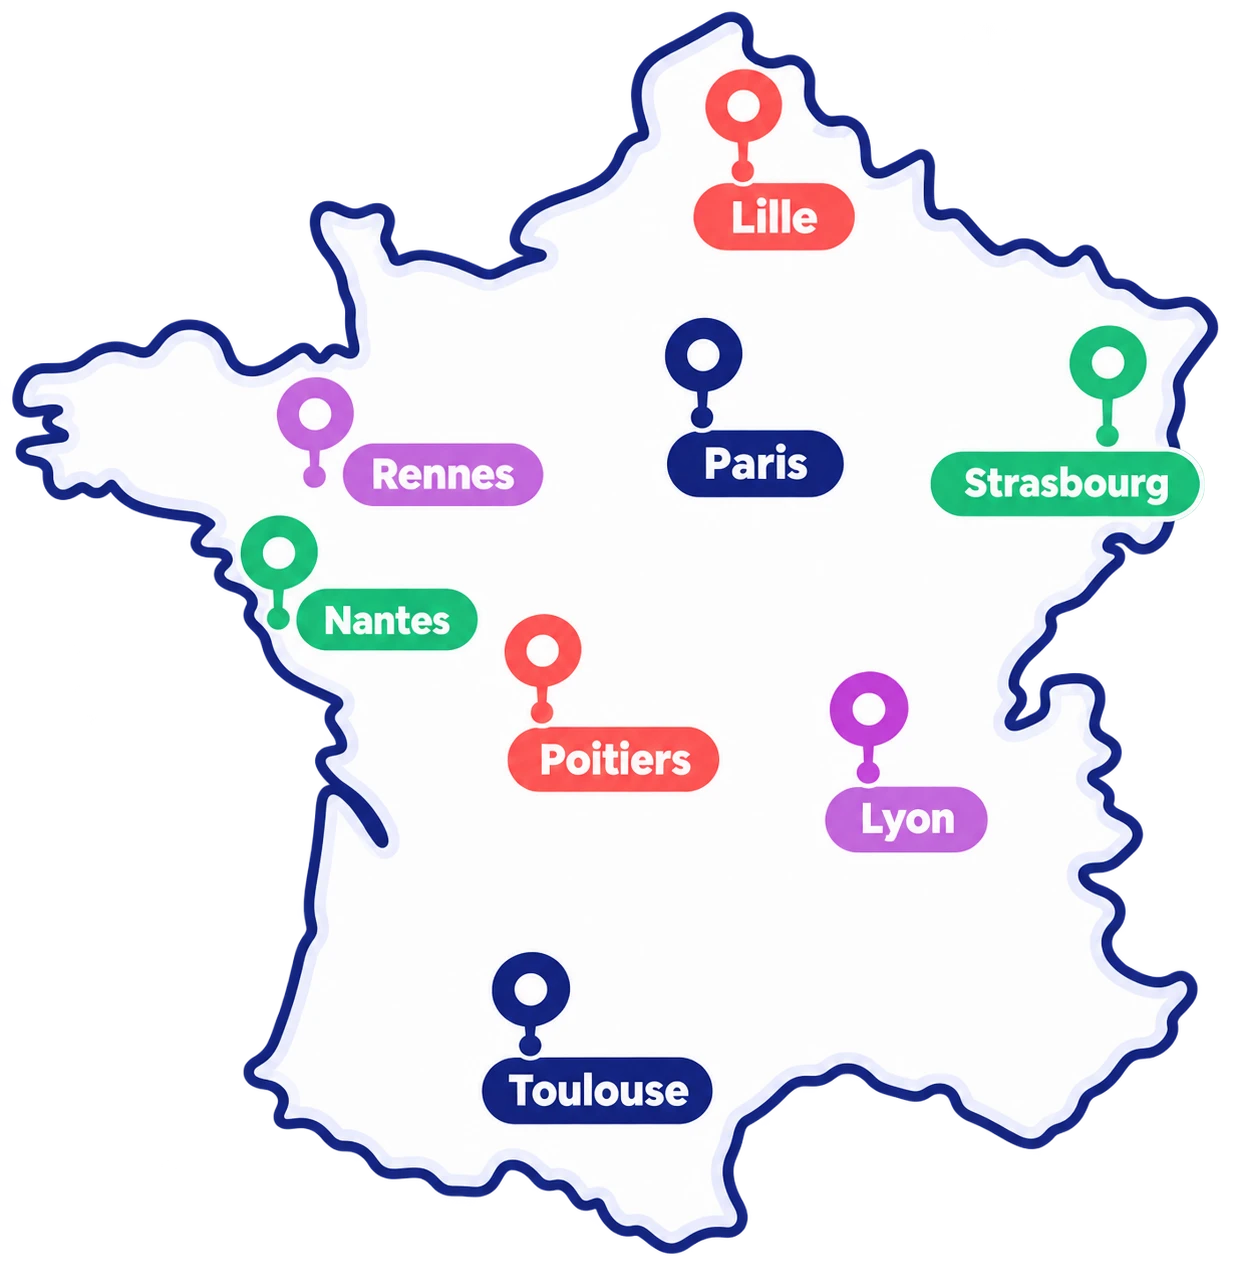
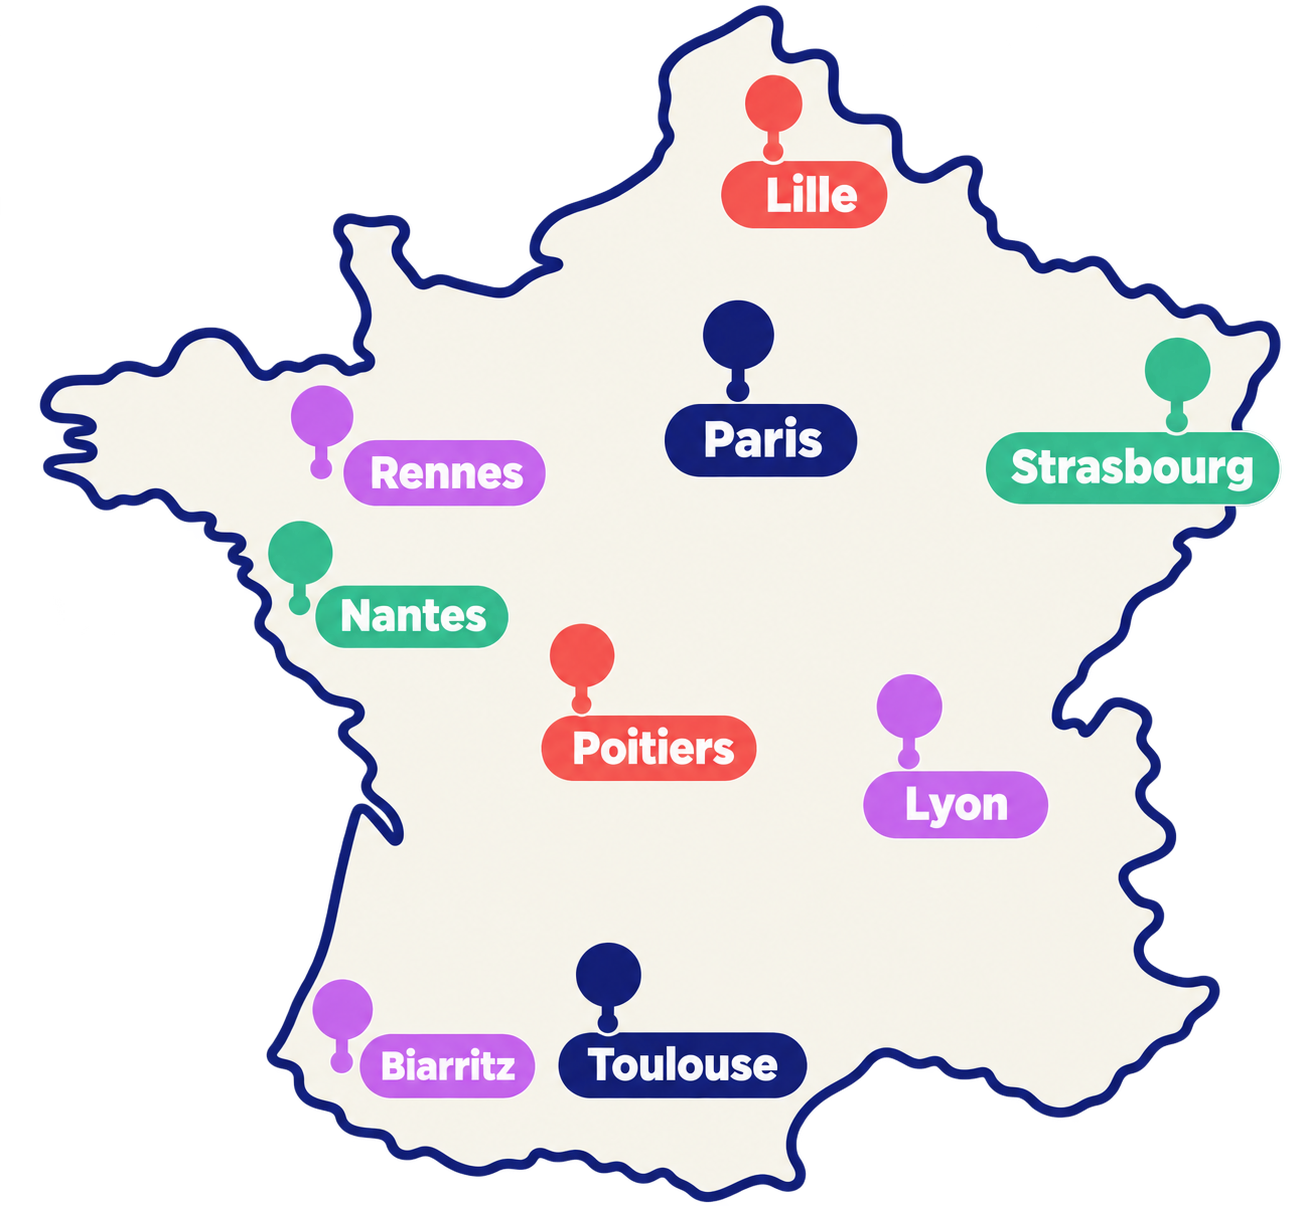
feat(about): add Biarritz antenna led by Loudie

diff --git a/src/ui-kit/components/templates/AboutAntennasSection/AboutAntennasSection.tsx b/src/ui-kit/components/templates/AboutAntennasSection/AboutAntennasSection.tsx
@@ -44,6 +44,11 @@ const ANTENNA_LEADERS = [
     name: "Marion",
     linkedin: "https://www.linkedin.com/in/marionlabbe/",
   },
+  {
+    city: "Biarritz",
+    name: "Loudie",
+    linkedin: "https://www.linkedin.com/in/loudie-sylvain/",
+  },
 ] as const;
 
 export const AboutAntennasSection = () => {
@@ -52,7 +57,7 @@ export const AboutAntennasSection = () => {
       <div className="container">
         <span className="section-eyebrow">Nos antennes</span>
         <h2 className="about-antennas-section__title">
-          8 antennes, partout en France
+          9 antennes, partout en France
         </h2>
         <p className="about-antennas-section__lead">
           Chaque antenne est portée localement par une Leader, avec le soutien
@@ -63,9 +68,9 @@ export const AboutAntennasSection = () => {
           <img
             className="about-antennas-section__map"
             src={`${basePath}/img/carte-antennes.webp`}
-            alt="Carte de France situant les 8 antennes de Yeeso : Lille, Strasbourg, Rennes, Paris, Nantes, Poitiers, Lyon et Toulouse."
-            width={1236}
-            height={1272}
+            alt="Carte de France situant les 9 antennes de Yeeso : Lille, Strasbourg, Rennes, Paris, Nantes, Poitiers, Lyon, Toulouse et Biarritz."
+            width={1305}
+            height={1206}
           />
 
           <dl className="about-antennas-section__list">
